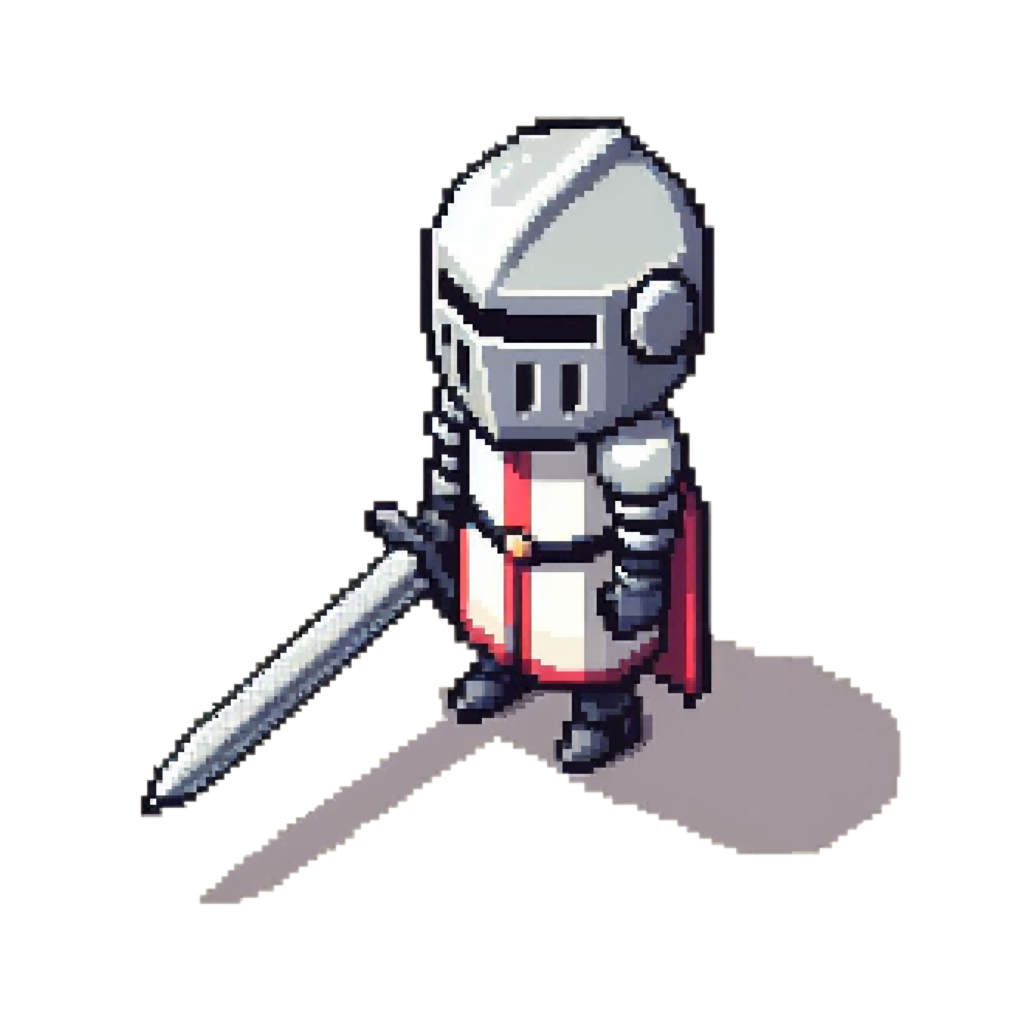
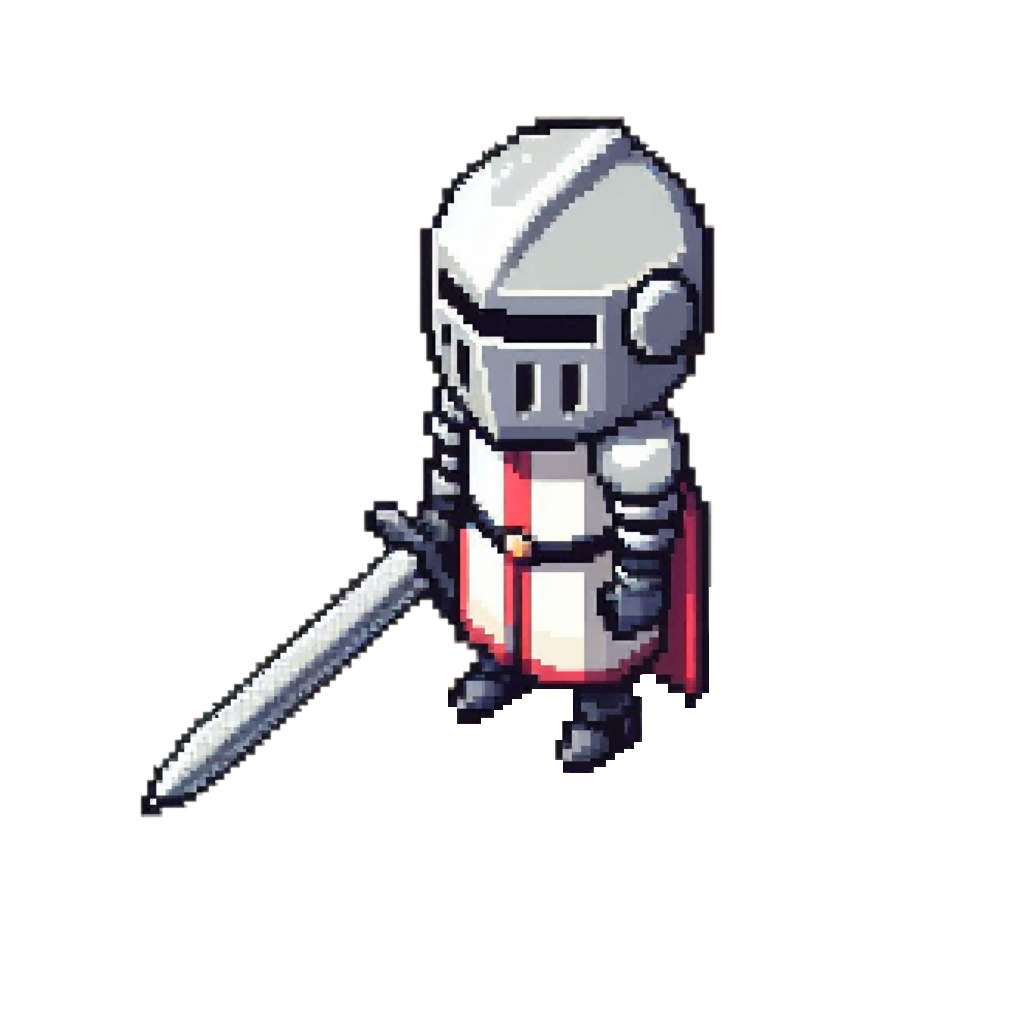
Add final portraits and a brand new character, THE FLASH!

Changed region(s): [[0.1875, 0.5938, 0.9062, 0.9062]]

diff --git a/Frontend/GamePage/controllers/Story.js b/Frontend/GamePage/controllers/Story.js
@@ -294,20 +294,20 @@ export class Story {
             const game = Story.gameController
             if (index == 1) {
                 const michailSprite = await GetSprite('Michail')
-                const billySprite = await GetSprite('Billy')
+                const FlashSprite = await GetSprite('Flash')
 
                 const michail = new NPC(game, 'Michail', michailSprite, game.width * 0.32, game.height * 0.64, 'Lovag')
-                const billy = new NPC(game, 'Billy', billySprite, game.width * 0.72, game.height * 0.52, 'Horgász')
+                const Flash = new NPC(game, 'Flash', FlashSprite, game.width * 0.72, game.height * 0.52, 'Horgász')
                 michail.blockX = 0
                 michail.blockY = 0
-                billy.blockX = 2
-                billy.blockY = 1
-                billy.objX = game.width * 0.25
-                billy.objY = game.height * 0.4
+                Flash.blockX = 2
+                Flash.blockY = 1
+                Flash.objX = game.width * 0.25
+                Flash.objY = game.height * 0.4
                 michail.objX = game.width * 0.26
                 michail.objY = game.height * 0.67
-                this.AddEntitiesToScene([michail, billy])
-                this.PostEntitis([michail, billy])
+                this.AddEntitiesToScene([michail, Flash])
+                this.PostEntitis([michail, Flash])
             }
         })
         if (filePath.includes('during')) {

diff --git a/Frontend/GamePage/views/view.js b/Frontend/GamePage/views/view.js
@@ -468,13 +468,13 @@ export class PanelView {
           div2.innerHTML += `<p>Ölj meg ${quest.Quest.target_amount} db ${quest.Quest.EnemyType.enemy_name} - t</p>`
           break;
         case "Conversation":
-          div2.innerHTML += `<p>Beszélj ${quest.Quest.target_resident} - ral</p>`
+          div2.innerHTML += `<p>Beszélj ${quest.Quest.target_resident} - al</p>`
           break;
         case "Collector":
           div2.innerHTML += `<p>Szerezz ${quest.Quest.target_amount} db ${quest.Quest.Item.name} - t</p>`
           break;
         case "Exploring":
-          div2.innerHTML += `<p>Juss el a ${isometricBlocks[quest.Quest.blockX][quest.Quest.blockY].name} - re</p>`
+          div2.innerHTML += `<p>Juss el a ${isometricBlocks[quest.Quest.blockX][quest.Quest.blockY].name} - hoz</p>`
           break;
         default:
           break;
@@ -499,7 +499,7 @@ export class PanelView {
     const el = element
     if (quest) {
       if (quest.is_completed) {
-        el.innerHTML = '<p>Üdvözöllek bátor utazó!</p>'
+        el.innerHTML = '<p>Üdv!</p>'
         return
       }
       if (quest.is_active) {
@@ -528,7 +528,7 @@ export class PanelView {
       }
     }
     else {
-      el.innerHTML = '<p>Üdvözöllek bátor utazó!</p>'
+      el.innerHTML = '<p>Üdv!</p>'
     }
     const anotherQuest = IsTargetResident(resident, resident.game.player.quests)
     if (anotherQuest) {
